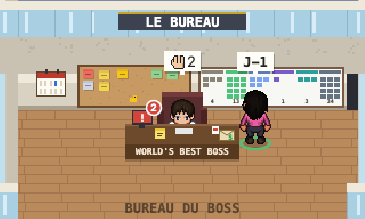
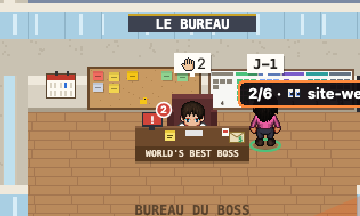
fix(icones): la main ✋ avec un pouce et quatre doigts séparés, plus de moufle
L'icône pixel 12 × 12 de ✋ (ce qui t'attend : bulle du boss, étiquette
de l'Œil, loupe, poste « Ton plan ») avait quatre doigts collés et pas
de pouce. Variante 2 de la maquette : doigts fins de hauteurs
différentes, pouce écarté. Captures bulle-validation et oeil refaites.

diff --git a/page/src/46-icones.js b/page/src/46-icones.js
@@ -6,8 +6,8 @@
 // en profite aussi. Le panneau (HTML) garde ses emojis. ✓ ✗ et les flèches restent du texte : la police les rend nettement.
 const PIX_PAL={"k":"#1c1f26","w":"#f4efe4","W":"#ffffff","g":"#a7adb8","G":"#5f6672","r":ST_VIF.err,"R":ST_FONCE.err,"y":"#f2c94c","o":ST_VIF.warn,"O":"#a8701a","b":ST_VIF.info,"B":"#2f4f9a","n":ST_VIF.ok,"N":ST_FONCE.ok,"t":"#d6a868","T":"#8a5a30","s":"#f2c9a0","S":"#c98f62","c":"#8fdcf0"};
 const PIX_ICONS={
-  '✋':[ // t'attend, ta décision
-    '...kkksskkk.','..kssksskssk','..kssksskssk','.kkssksskssk','kskssksskssk','kskssksskssk','kssssksskssk','ksssssssssSk','.kssssssssSk','..ksssssssSk','..ksssssssSk','...kkkkkkkk.'],
+  '✋':[ // t'attend, ta décision : quatre doigts fins de hauteurs différentes et un pouce écarté (plus de moufle)
+    '......k.....','....kkskk...','...kskskskk.','...ksksksksk','...ksksksksk','.kkksksksksk','ksskssssssSk','.kssssssssSk','..ksssssssSk','..ksssssssSk','...kssssSSk.','....kkkkkk..'],
   '⏱':[ // relevé, durée
     '....kkkk....','.....kk.....','...kkkkkk.k.','..kwwwwwwkk.','.kwwwkwwwwk.','.kwwwkwwwwk.','.kwwwkkwwwk.','.kwwwwwwwwk.','.kwwwwwwwwk.','..kwwwwwwk..','...kkkkkk...','............'],
   '🧯':[ // poste en panne

diff --git a/tests/icones.test.js b/tests/icones.test.js
@@ -22,6 +22,14 @@ test('les icônes retenues : relecture, rédaction, contexte, critique et la mai
   assert.ok(!J("'✓' in PIX_ICONS") && !J("'→' in PIX_ICONS"), '✓ et les flèches restent du texte');
 });
 
+test('la main ✋ a un pouce et quatre doigts séparés, pas une moufle', () => {
+  const m = J("PIX_ICONS['✋']"), skin = c => c === 's' || c === 'S';
+  assert.ok(m.slice(5, 8).some(r => [...r.slice(0, 3)].some(skin)), 'un pouce à gauche, écarté de la paume');
+  assert.equal(m[3].match(/[sS]+/g).length, 4, 'quatre doigts séparés par le contour');
+  const top = [4, 6, 8, 10].map(x => m.findIndex(r => skin(r[x])));
+  assert.ok(new Set(top).size > 1, 'des doigts de hauteurs différentes : ' + top);
+});
+
 test('une chaîne se coupe en texte et icônes, variante d\'emoji comprise ; 12 px, ×2 dès 24 px, ×½ sous 9 px', () => {
   assert.deepEqual(J("pixParts('📦 ENTREPÔT · 2')"), [{ic: '📦', src: '📦'}, ' ENTREPÔT · 2']);
   assert.deepEqual(J("pixParts('SORTIE · ✏ 3')"), ['SORTIE · ', {ic: '✏', src: '✏'}, ' 3']);

diff --git a/CHANGELOG.md b/CHANGELOG.md
@@ -36,6 +36,7 @@ Format : [Keep a Changelog](https://keepachangelog.com/fr/1.1.0/). Versions : `0
 
 ### Modifié
 
+- L'icône pixel de la main ✋ (ce qui t'attend : bulle du boss, étiquette de l'Œil, loupe) : une main avec un pouce et quatre doigts séparés, à la place de la moufle.
 - L'Œil : les pastilles de la fiche (changements demandés, fils, conflit, CI rouge, relecture demandée) passent en couleur vive de l'état avec le texte « sur couleur » du thème : lisibles sur le thème clair d'un pack comme en Classique ; la pastille sans état (nombre de fils) prend le gris des états, même règle.
 - L'Œil : l'étiquette sous l'œil passe en carte de deux lignes (la cible en gras, le motif dessous), fond sombre et liseré orange, deux fois moins large : lisible sur le thème d'un pack et sans couvrir le bureau du boss.
 - L'Œil suit les règles de la revue et de « Corriger » : brouillons, PR sans activité depuis 30 jours et relectures pas prêtes (conflit, CI rouge) hors de la ronde ; « changements demandés » seulement si la review est plus récente que ton dernier commit ; fils sans les comptes extérieurs ni les fils périmés ; relectures demandées à toi seulement (pas à tes équipes), sans bot ni label `skip-auto-review`. Sa fiche passe en sections, la carte regardée encadrée ; un clic sur une carte y pose l'œil 10 s. « ✓ Vu » (rien n'est gardé dans Kronn) et la notification du Mac de l'Œil sont retirés.
